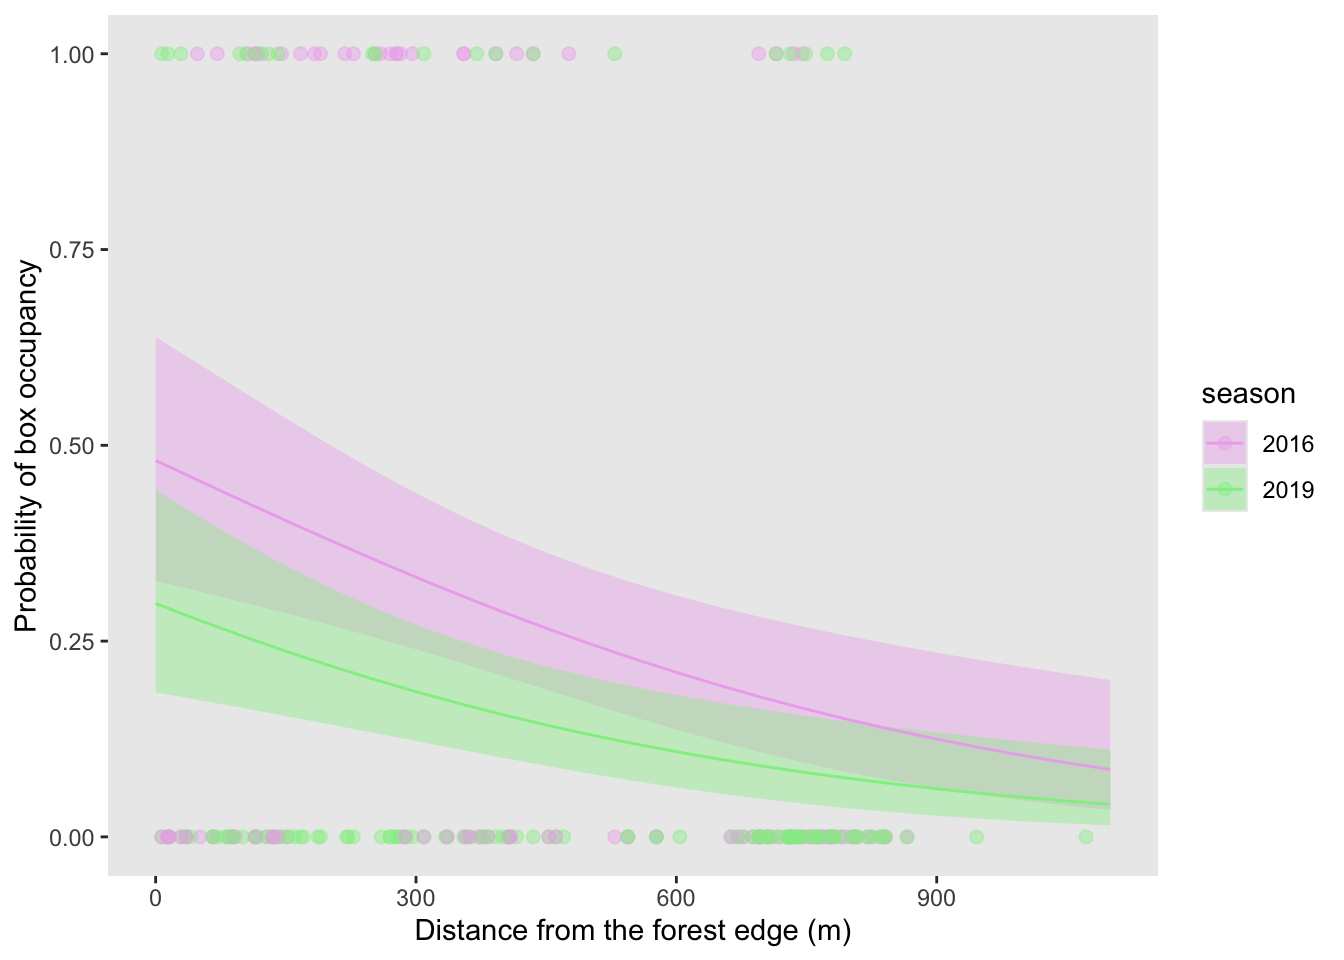
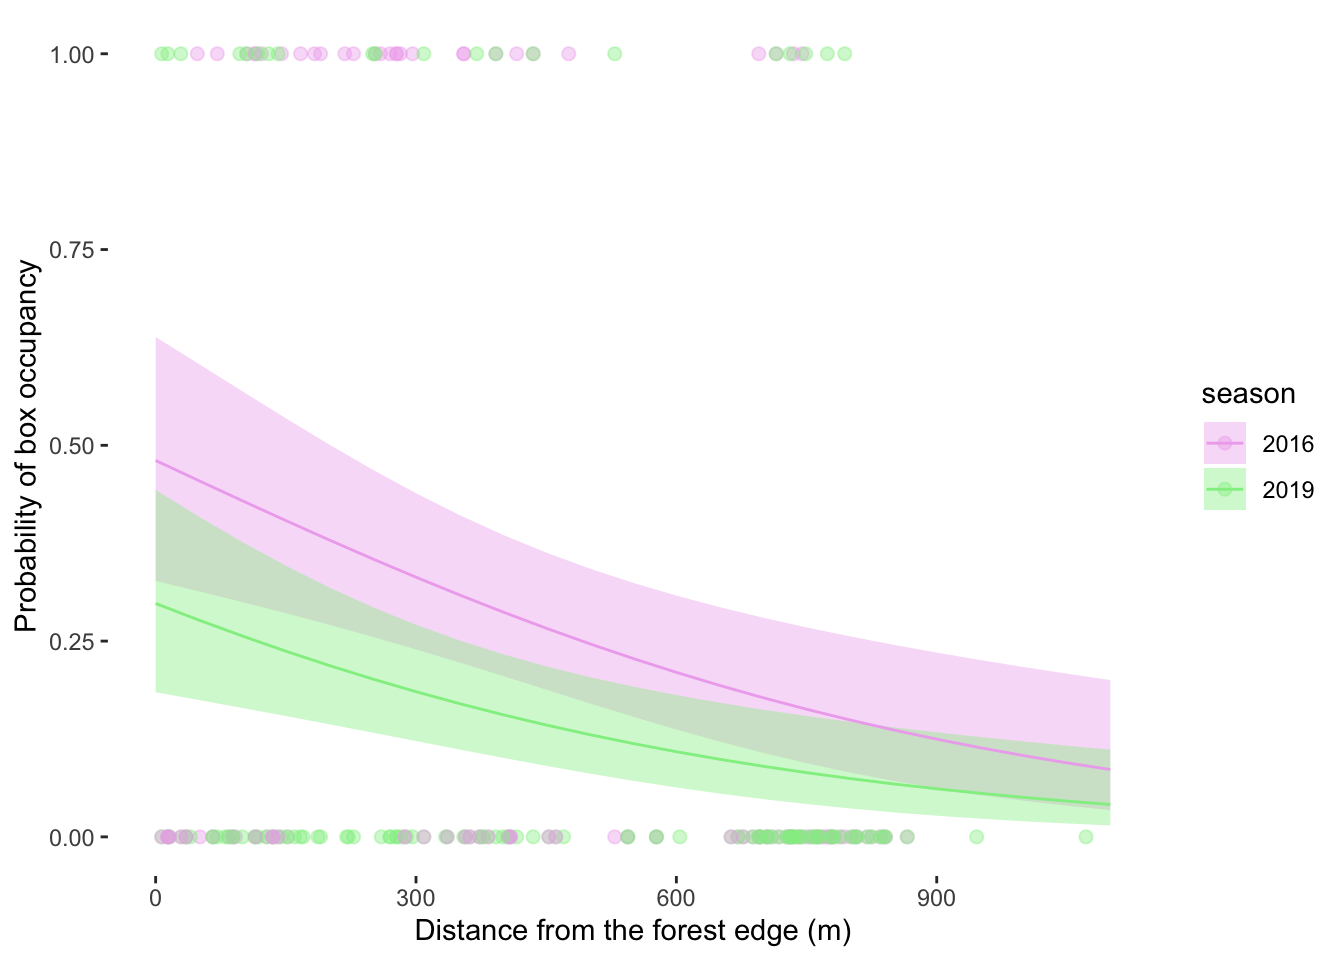
made final edits after reviewing rubric

diff --git a/code/ENVS193DS_final.html b/code/ENVS193DS_final.html
@@ -204,8 +204,8 @@ window.Quarto = {
 </section>
 <section id="c." class="level2">
 <h2 class="anchored" data-anchor-id="c.">c.&nbsp;</h2>
-<p>We rejected the null hypothesis that there is no correlation between distance from headwater (km) and annual total nitrogen load (kg year-1) (Pearson’s r = <strong>correlation coefficient</strong>, p = 0.03, <span class="math inline">\(\alpha\)</span> = <strong>significance level</strong>).</p>
-<p>We rejected the null hypothesis that there is no difference in average nitrogen load (kg year-1) between sources (n = sample sizes) (urban land, atmospheric deposition, fertilizer, wastewater treatment, and grasslands) (one-way ANOVA, F(<strong>among groups df, within groups df</strong>) = <strong>F-statistic</strong>, p = 0.02, <span class="math inline">\(\alpha\)</span> = <strong>significance level</strong>). We found a ___ effect (<span class="math inline">\(\eta^2\)</span> = <strong>effect size</strong>) of nitrogen source on nitrogen load. On average, <strong>source type</strong> tended to have smaller/larger nitrogen loads than <strong>source type</strong> (<strong>Tukey’s HSD</strong>).</p>
+<p>Our results suggest that there is a correlation between distance from headwater and annual total nitrogen load. We rejected the null hypothesis that there is no correlation between distance from headwater (km) and annual total nitrogen load (kg/year) (Pearson’s r = <strong>correlation coefficient</strong>, p = 0.03, <span class="math inline">\(\alpha\)</span> = <strong>significance level</strong>).</p>
+<p>Our results suggest that average nitrogen load differs between sources including urban land, atmospheric deposition, fertilizer, wastewater treatment, and grasslands. We rejected the null hypothesis that there is no difference in average nitrogen load (kg year-1) between sources (n = sample sizes) (urban land, atmospheric deposition, fertilizer, wastewater treatment, and grasslands) (one-way ANOVA, F(<strong>among groups df, within groups df</strong>) = <strong>F-statistic</strong>, p = 0.02, <span class="math inline">\(\alpha\)</span> = <strong>significance level</strong>). We found a ___ effect (<span class="math inline">\(\eta^2\)</span> = <strong>effect size</strong>) of nitrogen source on nitrogen load. On average, <strong>source type</strong> tended to have smaller/larger nitrogen loads than <strong>source type</strong> (<strong>Tukey’s HSD</strong>).</p>
 </section>
 </section>
 <section id="problem-2." class="level1">
@@ -231,11 +231,11 @@ window.Quarto = {
 <pre><code># A tibble: 5 × 3
   year  month mean_monthly_sst
   &lt;fct&gt; &lt;ord&gt;            &lt;dbl&gt;
-1 2020  Oct               19.0
-2 2023  Apr               12.4
-3 2022  Jun               16.2
-4 2021  Oct               16.6
-5 2022  Feb               14.1</code></pre>
+1 2020  May               14.6
+2 2018  Jan               15.0
+3 2020  Jun               15.9
+4 2023  Mar               12.8
+5 2020  Aug               17.8</code></pre>
 </div>
 </div>
 <div class="cell">
@@ -286,7 +286,7 @@ window.Quarto = {
 <h1>Problem 3.</h1>
 <section id="a.-2" class="level2">
 <h2 class="anchored" data-anchor-id="a.-2">a.</h2>
-<p>In this data set, 1s mean there is Swift Parrot nest occupancy and 0s mean there is Swift Parrot no nest occupancy. The 1s and 0s are a measure of if the nest is occupied by a Swift Parrot or not.</p>
+<p>In this data set, 1s mean there is Swift Parrot nest occupancy and 0s mean there is no nest occupancy by a Swift Parrot. The 1s and 0s are a measure of if the nest is occupied by a Swift Parrot or not.</p>
 </section>
 <section id="b.-2" class="level2">
 <h2 class="anchored" data-anchor-id="b.-2">b.</h2>
@@ -494,7 +494,8 @@ Number of Fisher Scoring iterations: 4</code></pre>
 <span id="cb18-22"><a href="#cb18-22" aria-hidden="true" tabindex="-1"></a>    <span class="at">x =</span> <span class="st">"Distance from the forest edge (m)"</span>, <span class="co">#change x-axis label</span></span>
 <span id="cb18-23"><a href="#cb18-23" aria-hidden="true" tabindex="-1"></a>    <span class="at">y =</span> <span class="st">"Probability of box occupancy"</span>, <span class="co">#change y-axis label</span></span>
 <span id="cb18-24"><a href="#cb18-24" aria-hidden="true" tabindex="-1"></a>  ) <span class="sc">+</span> </span>
-<span id="cb18-25"><a href="#cb18-25" aria-hidden="true" tabindex="-1"></a>  <span class="fu">theme</span>(<span class="at">panel.grid =</span> <span class="fu">element_blank</span>()) <span class="co">#remove the gridlines </span></span></code><button title="Copy to Clipboard" class="code-copy-button"><i class="bi"></i></button></pre></div>
+<span id="cb18-25"><a href="#cb18-25" aria-hidden="true" tabindex="-1"></a>  <span class="fu">theme</span>(<span class="at">panel.grid =</span> <span class="fu">element_blank</span>(), <span class="co">#remove the gridlines</span></span>
+<span id="cb18-26"><a href="#cb18-26" aria-hidden="true" tabindex="-1"></a>        <span class="at">panel.background =</span> <span class="fu">element_blank</span>()) <span class="co">#make the panel background blank</span></span></code><button title="Copy to Clipboard" class="code-copy-button"><i class="bi"></i></button></pre></div>
 <div class="cell-output-display">
 <div>
 <figure class="figure">
